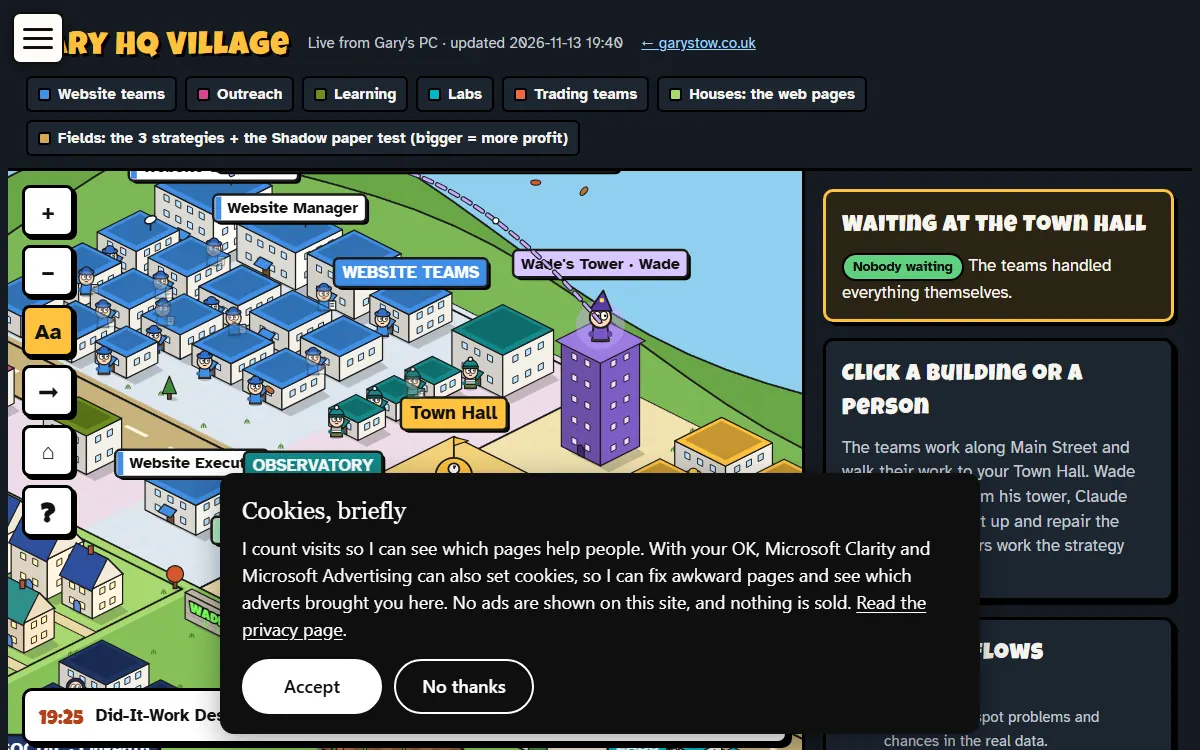
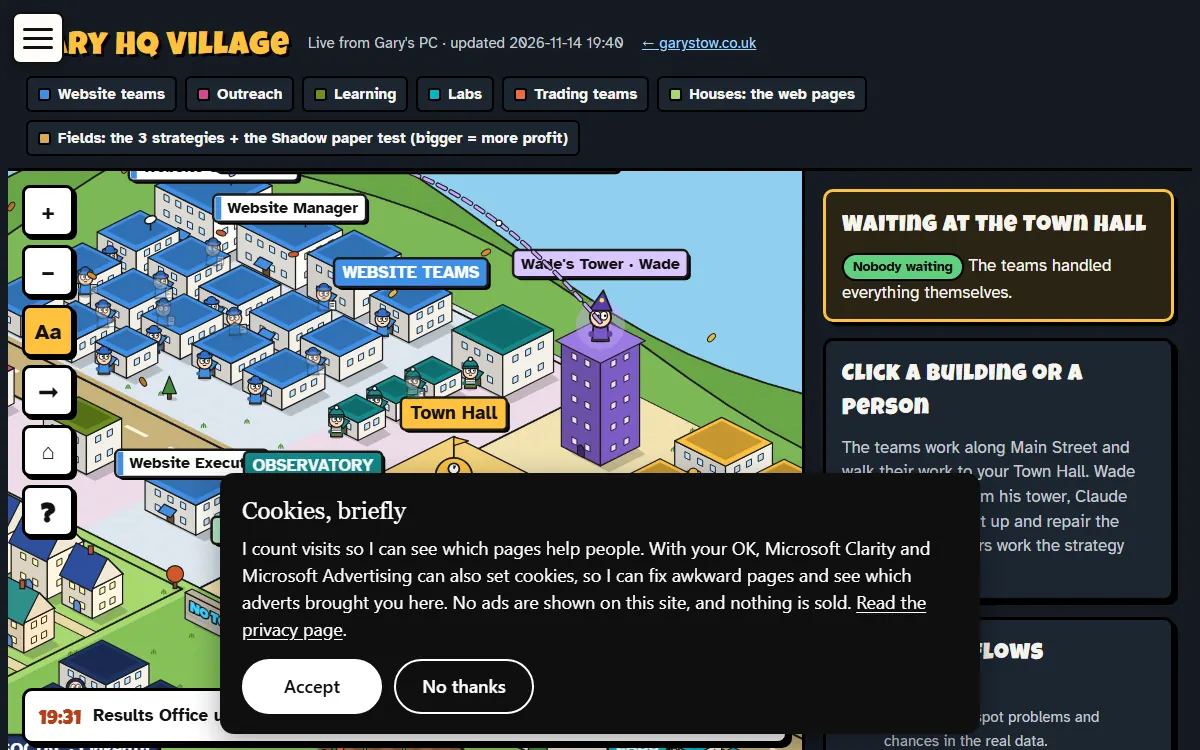
Village: refresh the public data (2026-11-14 19:40)

diff --git a/agents/map/index.html b/agents/map/index.html
@@ -114,7 +114,7 @@ section.map-sky{background:#070a12;color:#f4f6fb;padding:2rem 4rem 2.5rem;border
   <div class="map-stat"><b>79</b><span>Agents running</span></div>
   <div class="map-stat"><b>135</b><span>Hand-offs between them</span></div>
   <div class="map-stat"><b>4</b><span>Teams pulling toward 2 goals</span></div>
-  <div class="map-stat bad"><b>2</b><span>Problems right now</span></div>
+  <div class="map-stat ok"><b>0</b><span>Problems right now: all green</span></div>
 </div>
 
 <!-- THE SPHERE -->
@@ -179,7 +179,7 @@ section.map-sky{background:#070a12;color:#f4f6fb;padding:2rem 4rem 2.5rem;border
     <span class="section-num">02</span>
     <h2>Every agent on the map</h2>
   </div>
-  <p style="margin-bottom:1.5rem;max-width:65ch">Last checked 13 Nov 2026, 19:35. This public copy refreshes every evening.</p>
+  <p style="margin-bottom:1.5rem;max-width:65ch">Last checked 14 Nov 2026, 19:35. This public copy refreshes every evening.</p>
   <details open>
     <summary>The two goals (2)</summary>
     <dl>
